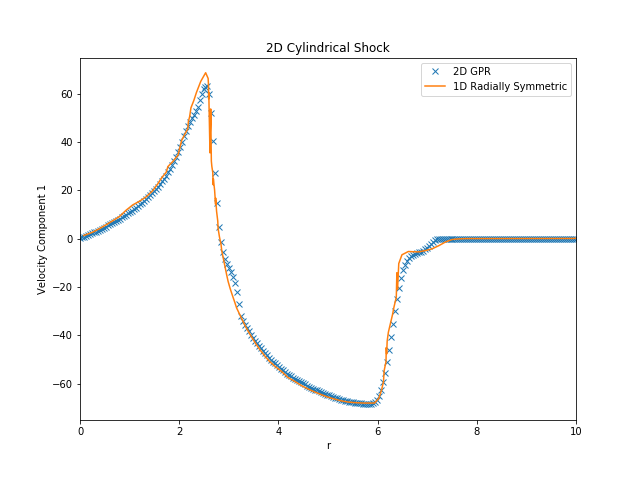
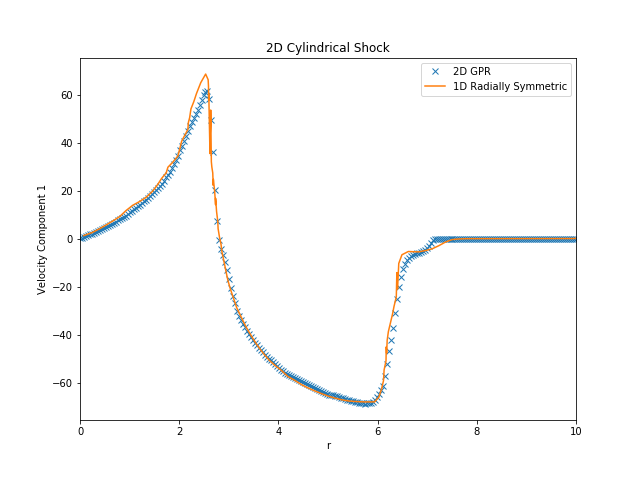
updated cylindrical shock results

diff --git a/python/test/solid/plastic.py b/python/test/solid/plastic.py
@@ -80,7 +80,7 @@ def cylindrical_shock():
     """ 10.1002/nme.2695
         6.2. Two-dimensional test case
 
-        N = 3
+        N = 4
         cfl = 0.8
         SPLIT = True
         SOLVER = 'roe'
@@ -121,4 +121,4 @@ def cylindrical_shock():
             else:
                 u[i, j] = Qi
 
-    return u, [MP], tf, dX
+    return u[:, 250:], [MP], tf, dX
